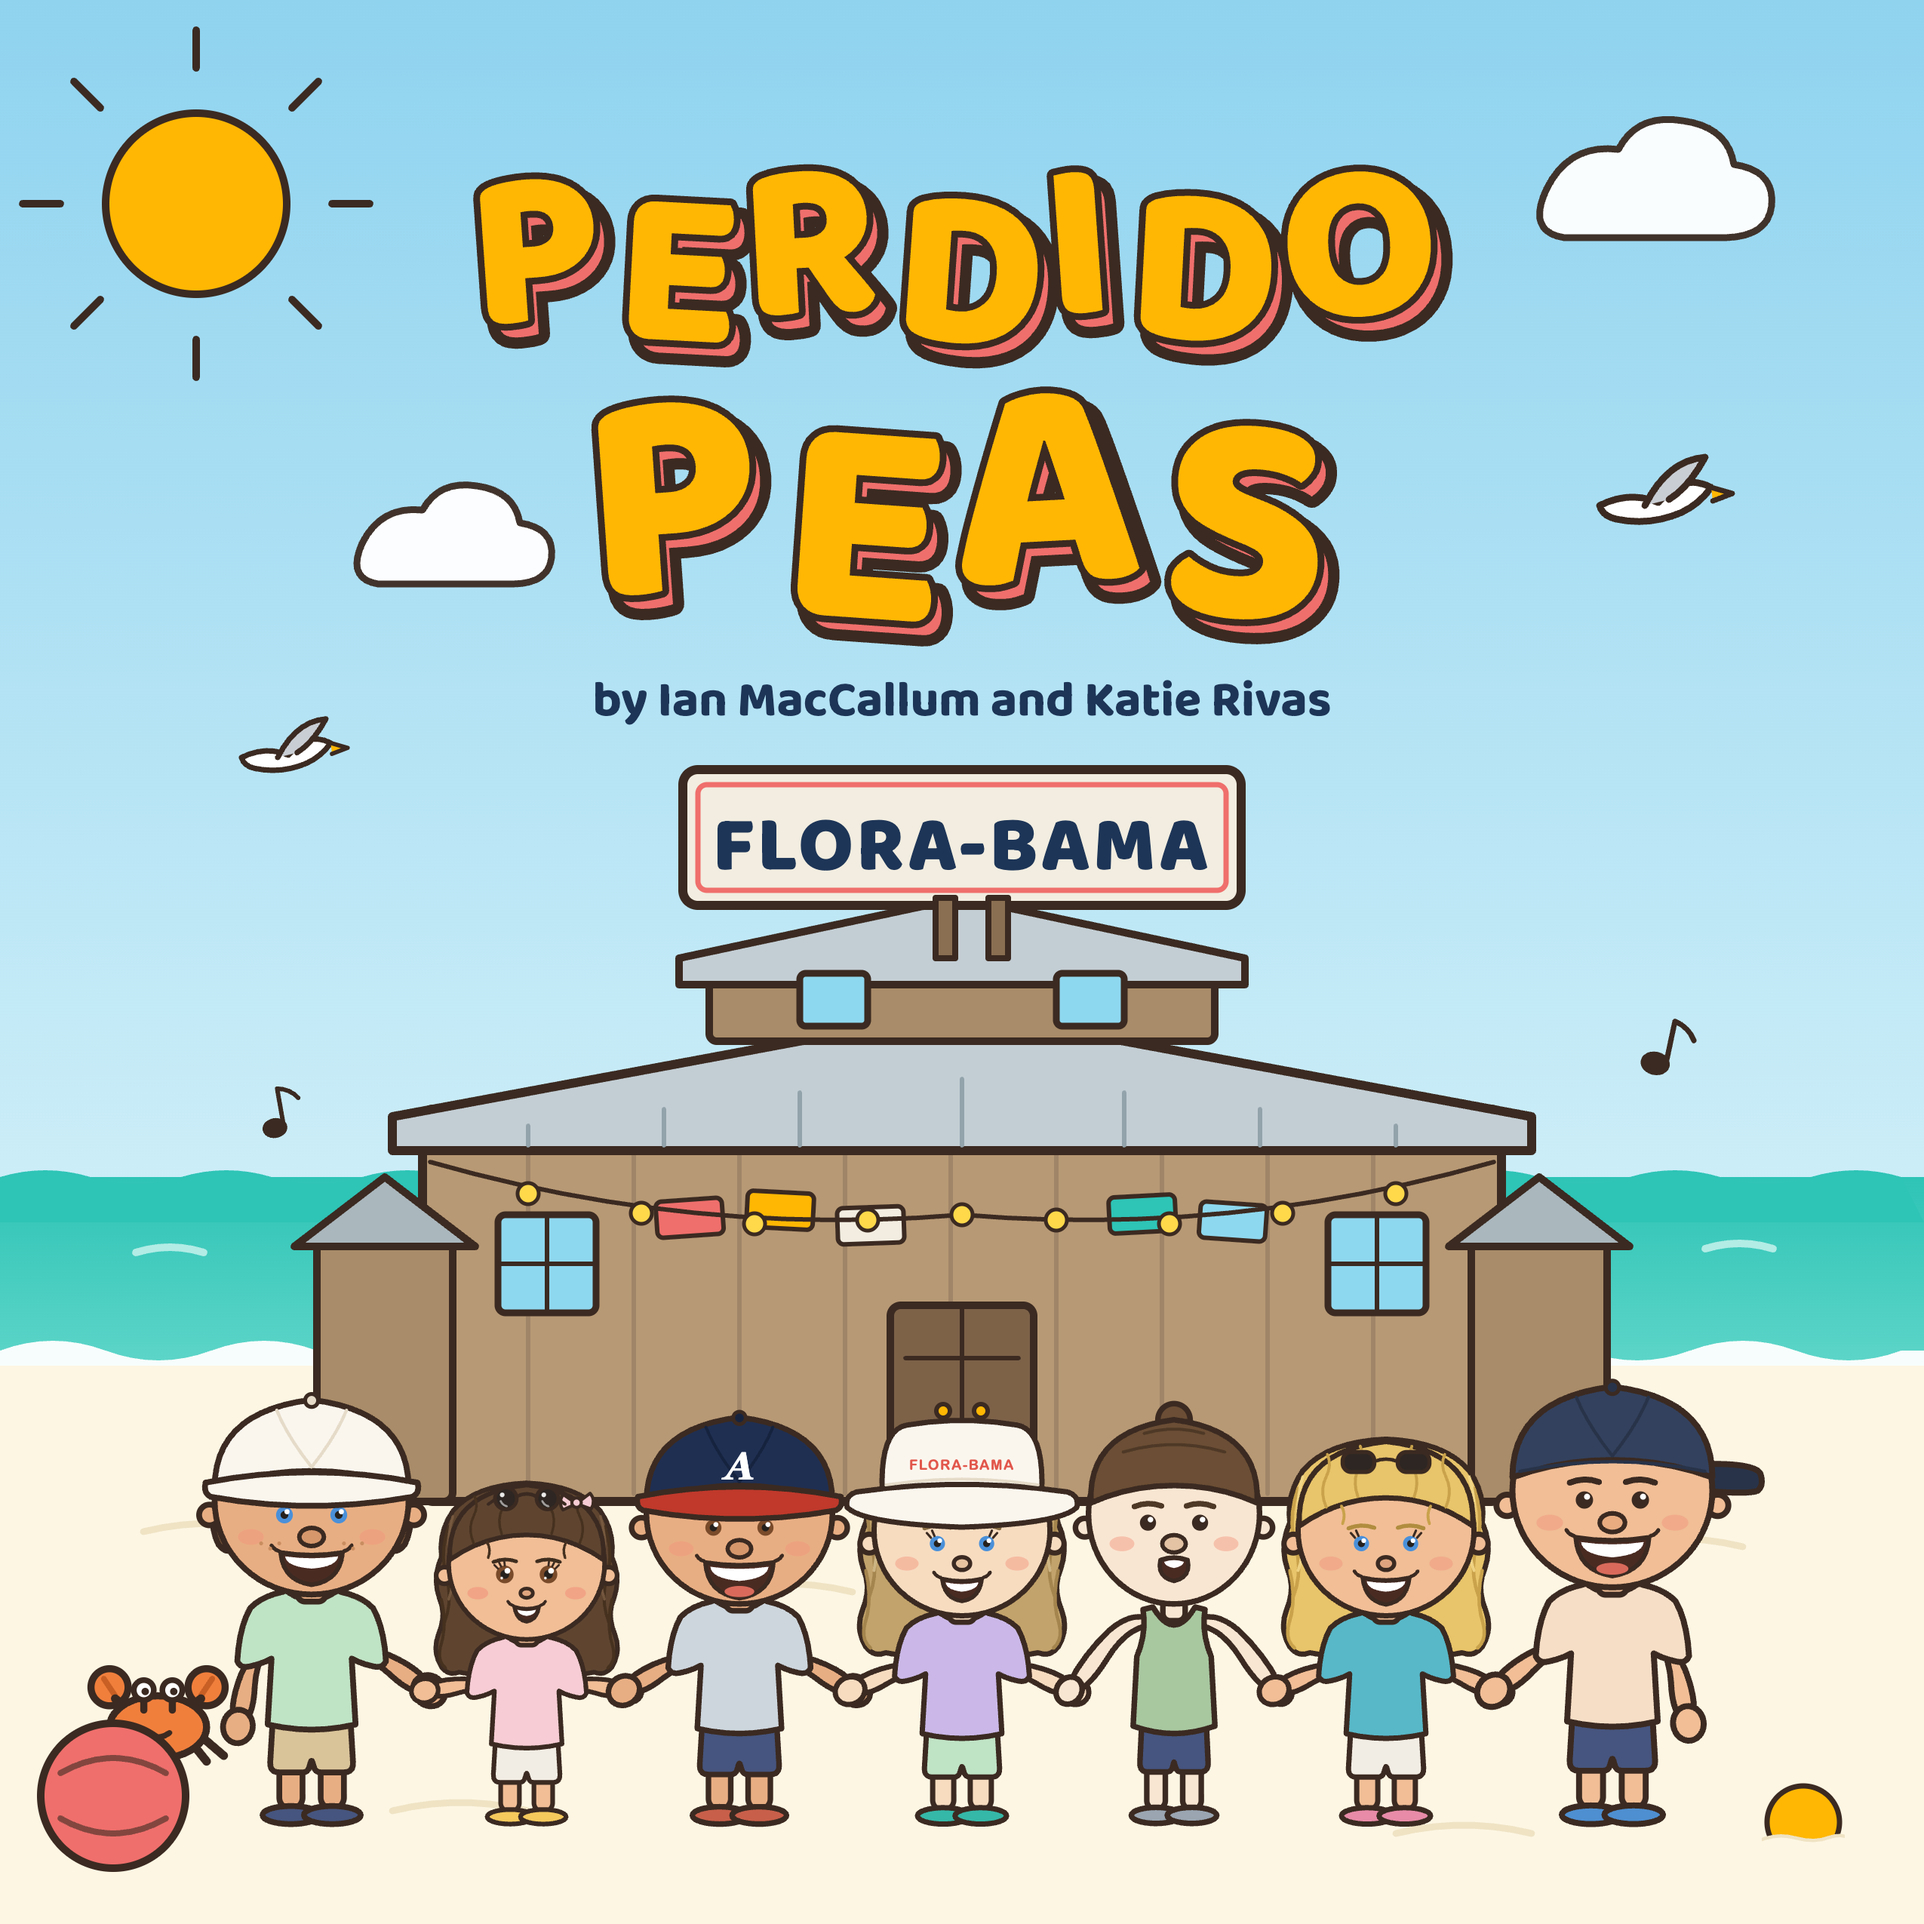
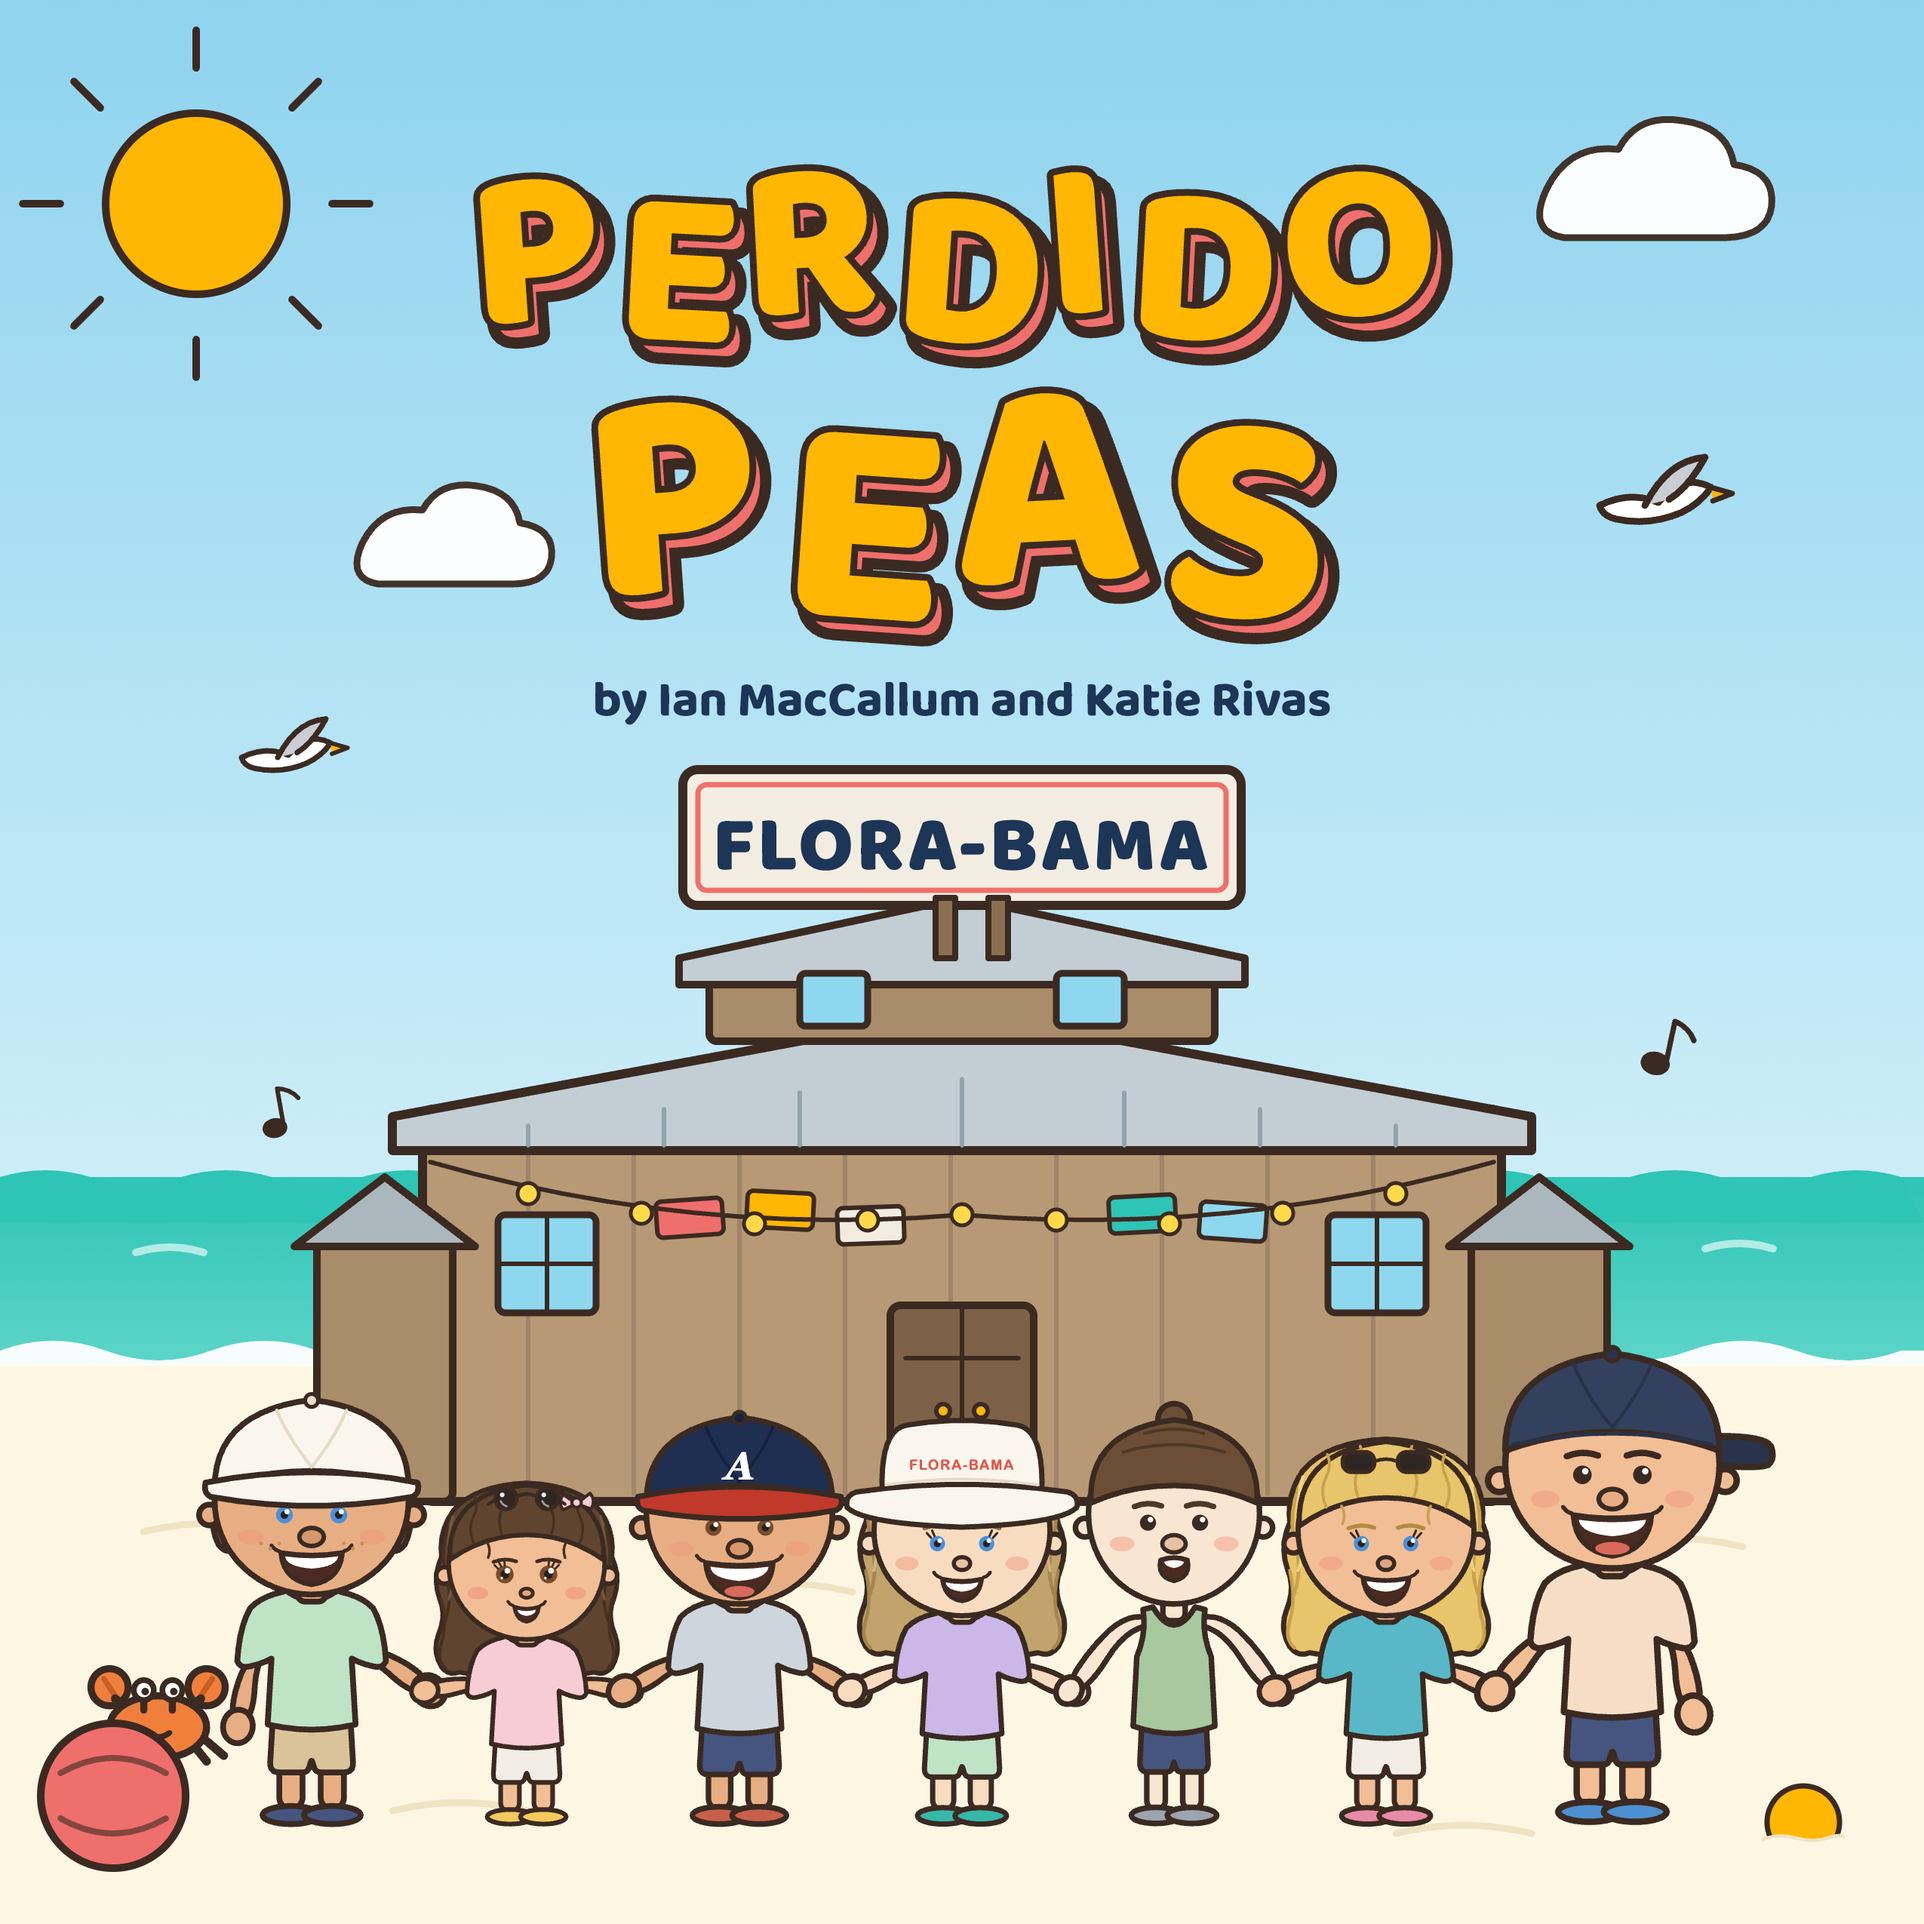
feat(art): tune Eric's holding pose and add dedication page

Changed region(s): [[0.7745, 0.6816, 0.9294, 0.9604]]

diff --git a/assets/pages/01-dedication.html b/assets/pages/01-dedication.html
@@ -1,0 +1,199 @@
+<!DOCTYPE html>
+<html lang="en">
+<head>
+  <meta charset="utf-8">
+  <meta name="viewport" content="width=2550">
+  <link rel="preconnect" href="https://fonts.googleapis.com">
+  <link rel="preconnect" href="https://fonts.gstatic.com" crossorigin>
+  <link href="https://fonts.googleapis.com/css2?family=Baloo+2:wght@600;700;800&display=swap" rel="stylesheet">
+  <style>
+    html, body { margin: 0; padding: 0; }
+    body {
+      width: 2550px;
+      height: 2550px;
+      overflow: hidden;
+      position: relative;
+      font-family: "Baloo 2", sans-serif;
+    }
+    .layer { position: absolute; inset: 0; }
+    .dedication {
+      position: absolute;
+      top: 780px;
+      left: 0;
+      width: 2550px;
+      margin: 0;
+      text-align: center;
+      font-family: "Baloo 2", sans-serif;
+      font-weight: 700;
+      font-size: 110px;
+      line-height: 1.3;
+      color: #1d3557;
+    }
+  </style>
+</head>
+<body>
+
+  <!-- ===================== quiet scene: hint of sky, thin gulf, wide sand ===================== -->
+  <svg class="layer" viewBox="0 0 2550 2550" xmlns="http://www.w3.org/2000/svg">
+    <defs>
+      <linearGradient id="sky" x1="0" y1="0" x2="0" y2="1">
+        <stop offset="0" stop-color="#8fd3ef"/>
+        <stop offset="1" stop-color="#cdeef8"/>
+      </linearGradient>
+      <linearGradient id="gulf" x1="0" y1="0" x2="0" y2="1">
+        <stop offset="0" stop-color="#2ec4b6"/>
+        <stop offset="1" stop-color="#5fd6c9"/>
+      </linearGradient>
+    </defs>
+
+    <!-- hint of sky -->
+    <rect x="0" y="0" width="2550" height="500" fill="url(#sky)"/>
+
+    <!-- small sun, top left -->
+    <g stroke="#3b2a21" stroke-width="10" stroke-linecap="round">
+      <circle cx="250" cy="240" r="90" fill="#ffb703"/>
+      <path d="M 250 105 L 250 65 M 250 375 L 250 415 M 115 240 L 75 240 M 385 240 L 425 240
+               M 155 145 L 127 117 M 345 145 L 373 117 M 155 335 L 127 363 M 345 335 L 373 363" fill="none"/>
+    </g>
+
+    <!-- one puffy cloud -->
+    <g fill="#ffffff" stroke="#3b2a21" stroke-width="9" stroke-linejoin="round" opacity="0.95">
+      <path d="M 2020 210 q 25 -50 80 -44 q 22 -40 72 -32 q 50 7 57 49 q 46 7 42 46 q -4 34 -50 35 l -180 0 q -42 -7 -21 -54 Z"/>
+    </g>
+
+    <!-- thin emerald gulf at the horizon -->
+    <rect x="0" y="450" width="2550" height="120" fill="url(#gulf)"/>
+    <path d="M 0 450 q 60 -18 120 0 q 60 18 120 0 q 60 -18 120 0 q 60 18 120 0 q 60 -18 120 0 q 60 18 120 0 q 60 -18 120 0 q 60 18 120 0 q 60 -18 120 0 q 60 18 120 0 q 60 -18 120 0 q 60 18 120 0 q 60 -18 120 0 q 60 18 120 0 q 60 -18 120 0 q 60 18 120 0 q 60 -18 120 0 q 60 18 120 0 q 60 -18 120 0 q 60 18 120 0 q 60 -18 120 0 L 2550 510 L 0 510 Z" fill="#2ec4b6"/>
+    <g stroke="#bff0ea" stroke-width="10" stroke-linecap="round" fill="none" opacity="0.9">
+      <path d="M 480 505 q 45 -14 90 0 M 1560 500 q 45 -14 90 0"/>
+    </g>
+
+    <!-- foam edge where waves meet the sand -->
+    <path d="M 0 550 q 70 -26 140 0 q 70 26 140 0 q 70 -26 140 0 q 70 26 140 0 q 70 -26 140 0 q 70 26 140 0 q 70 -26 140 0 q 70 26 140 0 q 70 -26 140 0 q 70 26 140 0 q 70 -26 140 0 q 70 26 140 0 q 70 -26 140 0 q 70 26 140 0 q 70 -26 140 0 q 70 26 140 0 q 70 -26 140 0 q 70 26 140 0 L 2550 550 L 2550 580 L 0 580 Z" fill="#ffffff" opacity="0.95"/>
+
+    <!-- sugar-white sand field -->
+    <rect x="0" y="570" width="2550" height="1980" fill="#fdf6e3"/>
+    <g stroke="#efe3c4" stroke-width="9" stroke-linecap="round" fill="none">
+      <path d="M 300 1150 q 90 -22 180 0 M 2050 1200 q 90 -22 180 0 M 480 2080 q 90 -22 180 0 M 1300 2280 q 90 -22 180 0 M 1950 2050 q 90 -22 180 0 M 950 1980 q 90 -22 180 0"/>
+    </g>
+
+    <!-- ===================== the pea pod boat ===================== -->
+    <g stroke="#3b2a21" stroke-linejoin="round" stroke-linecap="round">
+
+      <!-- scoot trail in the sand behind the pod (the crab has been pushing) -->
+      <g stroke="#efe3c4" stroke-width="10" fill="none">
+        <path d="M 2150 1700 q 60 -16 120 0 M 2330 1730 q 50 -14 100 0"/>
+      </g>
+
+      <!-- back wall of the open pod, tapering to the same tips as the front -->
+      <path d="M 660 1430 Q 1275 1520 1890 1430 Q 1600 1690 1275 1690 Q 950 1690 660 1430 Z"
+            fill="#689a54" stroke-width="10"/>
+
+      <!-- seven peas tucked inside, each in tiny sunglasses -->
+      <g stroke-width="10">
+        <circle cx="795"  cy="1407" r="85" fill="#8abf72"/>
+        <circle cx="955"  cy="1439" r="85" fill="#8abf72"/>
+        <circle cx="1115" cy="1459" r="85" fill="#8abf72"/>
+        <circle cx="1275" cy="1465" r="85" fill="#8abf72"/>
+        <circle cx="1435" cy="1459" r="85" fill="#8abf72"/>
+        <circle cx="1595" cy="1439" r="85" fill="#8abf72"/>
+        <circle cx="1755" cy="1407" r="85" fill="#8abf72"/>
+      </g>
+
+      <!-- faces: sunglasses, smiles, cheeks -->
+      <g id="faces" stroke="none">
+        <g transform="translate(795 1407)">
+          <rect x="-45" y="-36" width="40" height="30" rx="12" fill="#3b2a21"/>
+          <rect x="5"   y="-36" width="40" height="30" rx="12" fill="#3b2a21"/>
+          <path d="M -5 -25 L 5 -25" stroke="#3b2a21" stroke-width="8"/>
+          <circle cx="-34" cy="-28" r="5" fill="#ffffff" opacity="0.85"/>
+          <circle cx="16"  cy="-28" r="5" fill="#ffffff" opacity="0.85"/>
+          <path d="M -20 16 Q 0 36 20 16" fill="none" stroke="#3b2a21" stroke-width="9" stroke-linecap="round"/>
+          <circle cx="-48" cy="10" r="11" fill="#f2a48d" opacity="0.6"/>
+          <circle cx="48"  cy="10" r="11" fill="#f2a48d" opacity="0.6"/>
+        </g>
+        <g transform="translate(955 1439)">
+          <rect x="-45" y="-36" width="40" height="30" rx="12" fill="#3b2a21"/>
+          <rect x="5"   y="-36" width="40" height="30" rx="12" fill="#3b2a21"/>
+          <path d="M -5 -25 L 5 -25" stroke="#3b2a21" stroke-width="8"/>
+          <circle cx="-34" cy="-28" r="5" fill="#ffffff" opacity="0.85"/>
+          <circle cx="16"  cy="-28" r="5" fill="#ffffff" opacity="0.85"/>
+          <path d="M -20 16 Q 0 36 20 16" fill="none" stroke="#3b2a21" stroke-width="9" stroke-linecap="round"/>
+          <circle cx="-48" cy="10" r="11" fill="#f2a48d" opacity="0.6"/>
+          <circle cx="48"  cy="10" r="11" fill="#f2a48d" opacity="0.6"/>
+        </g>
+        <g transform="translate(1115 1459)">
+          <rect x="-45" y="-36" width="40" height="30" rx="12" fill="#3b2a21"/>
+          <rect x="5"   y="-36" width="40" height="30" rx="12" fill="#3b2a21"/>
+          <path d="M -5 -25 L 5 -25" stroke="#3b2a21" stroke-width="8"/>
+          <circle cx="-34" cy="-28" r="5" fill="#ffffff" opacity="0.85"/>
+          <circle cx="16"  cy="-28" r="5" fill="#ffffff" opacity="0.85"/>
+          <path d="M -20 16 Q 0 36 20 16" fill="none" stroke="#3b2a21" stroke-width="9" stroke-linecap="round"/>
+          <circle cx="-48" cy="10" r="11" fill="#f2a48d" opacity="0.6"/>
+          <circle cx="48"  cy="10" r="11" fill="#f2a48d" opacity="0.6"/>
+        </g>
+        <g transform="translate(1275 1465)">
+          <rect x="-45" y="-36" width="40" height="30" rx="12" fill="#3b2a21"/>
+          <rect x="5"   y="-36" width="40" height="30" rx="12" fill="#3b2a21"/>
+          <path d="M -5 -25 L 5 -25" stroke="#3b2a21" stroke-width="8"/>
+          <circle cx="-34" cy="-28" r="5" fill="#ffffff" opacity="0.85"/>
+          <circle cx="16"  cy="-28" r="5" fill="#ffffff" opacity="0.85"/>
+          <path d="M -22 14 Q 0 40 22 14" fill="none" stroke="#3b2a21" stroke-width="9" stroke-linecap="round"/>
+          <circle cx="-48" cy="10" r="11" fill="#f2a48d" opacity="0.6"/>
+          <circle cx="48"  cy="10" r="11" fill="#f2a48d" opacity="0.6"/>
+        </g>
+        <g transform="translate(1435 1459)">
+          <rect x="-45" y="-36" width="40" height="30" rx="12" fill="#3b2a21"/>
+          <rect x="5"   y="-36" width="40" height="30" rx="12" fill="#3b2a21"/>
+          <path d="M -5 -25 L 5 -25" stroke="#3b2a21" stroke-width="8"/>
+          <circle cx="-34" cy="-28" r="5" fill="#ffffff" opacity="0.85"/>
+          <circle cx="16"  cy="-28" r="5" fill="#ffffff" opacity="0.85"/>
+          <path d="M -20 16 Q 0 36 20 16" fill="none" stroke="#3b2a21" stroke-width="9" stroke-linecap="round"/>
+          <circle cx="-48" cy="10" r="11" fill="#f2a48d" opacity="0.6"/>
+          <circle cx="48"  cy="10" r="11" fill="#f2a48d" opacity="0.6"/>
+        </g>
+        <g transform="translate(1595 1439)">
+          <rect x="-45" y="-36" width="40" height="30" rx="12" fill="#3b2a21"/>
+          <rect x="5"   y="-36" width="40" height="30" rx="12" fill="#3b2a21"/>
+          <path d="M -5 -25 L 5 -25" stroke="#3b2a21" stroke-width="8"/>
+          <circle cx="-34" cy="-28" r="5" fill="#ffffff" opacity="0.85"/>
+          <circle cx="16"  cy="-28" r="5" fill="#ffffff" opacity="0.85"/>
+          <path d="M -20 16 Q 0 36 20 16" fill="none" stroke="#3b2a21" stroke-width="9" stroke-linecap="round"/>
+          <circle cx="-48" cy="10" r="11" fill="#f2a48d" opacity="0.6"/>
+          <circle cx="48"  cy="10" r="11" fill="#f2a48d" opacity="0.6"/>
+        </g>
+        <g transform="translate(1755 1407)">
+          <rect x="-45" y="-36" width="40" height="30" rx="12" fill="#3b2a21"/>
+          <rect x="5"   y="-36" width="40" height="30" rx="12" fill="#3b2a21"/>
+          <path d="M -5 -25 L 5 -25" stroke="#3b2a21" stroke-width="8"/>
+          <circle cx="-34" cy="-28" r="5" fill="#ffffff" opacity="0.85"/>
+          <circle cx="16"  cy="-28" r="5" fill="#ffffff" opacity="0.85"/>
+          <path d="M -20 16 Q 0 36 20 16" fill="none" stroke="#3b2a21" stroke-width="9" stroke-linecap="round"/>
+          <circle cx="-48" cy="10" r="11" fill="#f2a48d" opacity="0.6"/>
+          <circle cx="48"  cy="10" r="11" fill="#f2a48d" opacity="0.6"/>
+        </g>
+      </g>
+
+      <!-- front of the pod, tapered tips like a little green boat -->
+      <path d="M 660 1430 Q 1275 1620 1890 1430
+               Q 1860 1620 1640 1670 Q 1430 1710 1275 1710 Q 1120 1710 910 1670 Q 700 1620 660 1430 Z"
+            fill="#7fb069" stroke-width="12"/>
+
+      <!-- curly stem at the left tip -->
+      <path d="M 662 1432 Q 600 1400 615 1350 Q 628 1312 596 1296" fill="none" stroke-width="10"/>
+
+      <!-- seam accent along the pod belly -->
+      <g stroke="#6a9a58" stroke-width="7" fill="none" opacity="0.9">
+        <path d="M 940 1620 Q 1275 1680 1610 1620"/>
+      </g>
+    </g>
+  </svg>
+
+  <!-- ===================== dedication text ===================== -->
+  <p class="dedication">For the Perdido Peas.</p>
+
+  <!-- ===================== the crab, nudging the pod along like a little boat ===================== -->
+  <img src="../../public/characters/crab.svg" alt="Crab" style="position: absolute; left: 1738px; bottom: 840px; height: 175px; width: auto;">
+
+</body>
+</html>

diff --git a/assets/pages/00-cover.html b/assets/pages/00-cover.html
@@ -190,7 +190,7 @@
   <img class="friend" src="../../public/characters/holding/grace.svg" alt="Grace" style="left: 1010px; bottom: 90px;">
   <img class="friend" src="../../public/characters/holding/ben.svg"   alt="Ben"   style="left: 1291px; bottom: 90px;">
   <img class="friend" src="../../public/characters/holding/sarah.svg" alt="Sarah" style="left: 1572px; bottom: 90px;">
-  <img class="friend" src="../../public/characters/holding/eric.svg"  alt="Eric"  style="left: 1872px; bottom: 90px;">
+  <img class="friend" src="../../public/characters/holding/eric.svg"  alt="Eric"  style="left: 1853px; bottom: 90px; height: 757px;">
 
   <!-- ===================== crab peeking from behind a bocce ball ===================== -->
   <img src="../../public/characters/crab.svg" alt="Crab" style="position: absolute; left: 96px; bottom: 208px; height: 170px; width: auto;">
